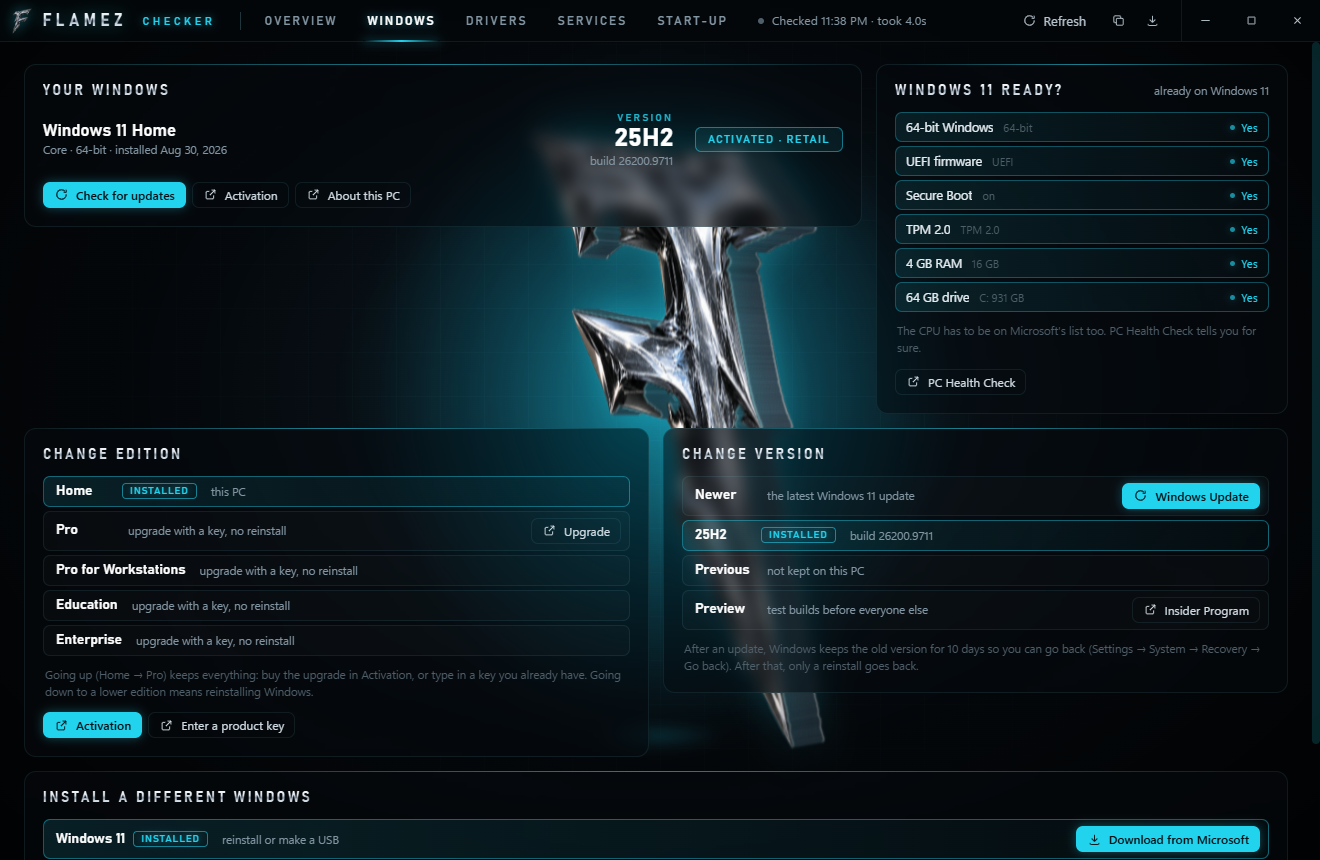
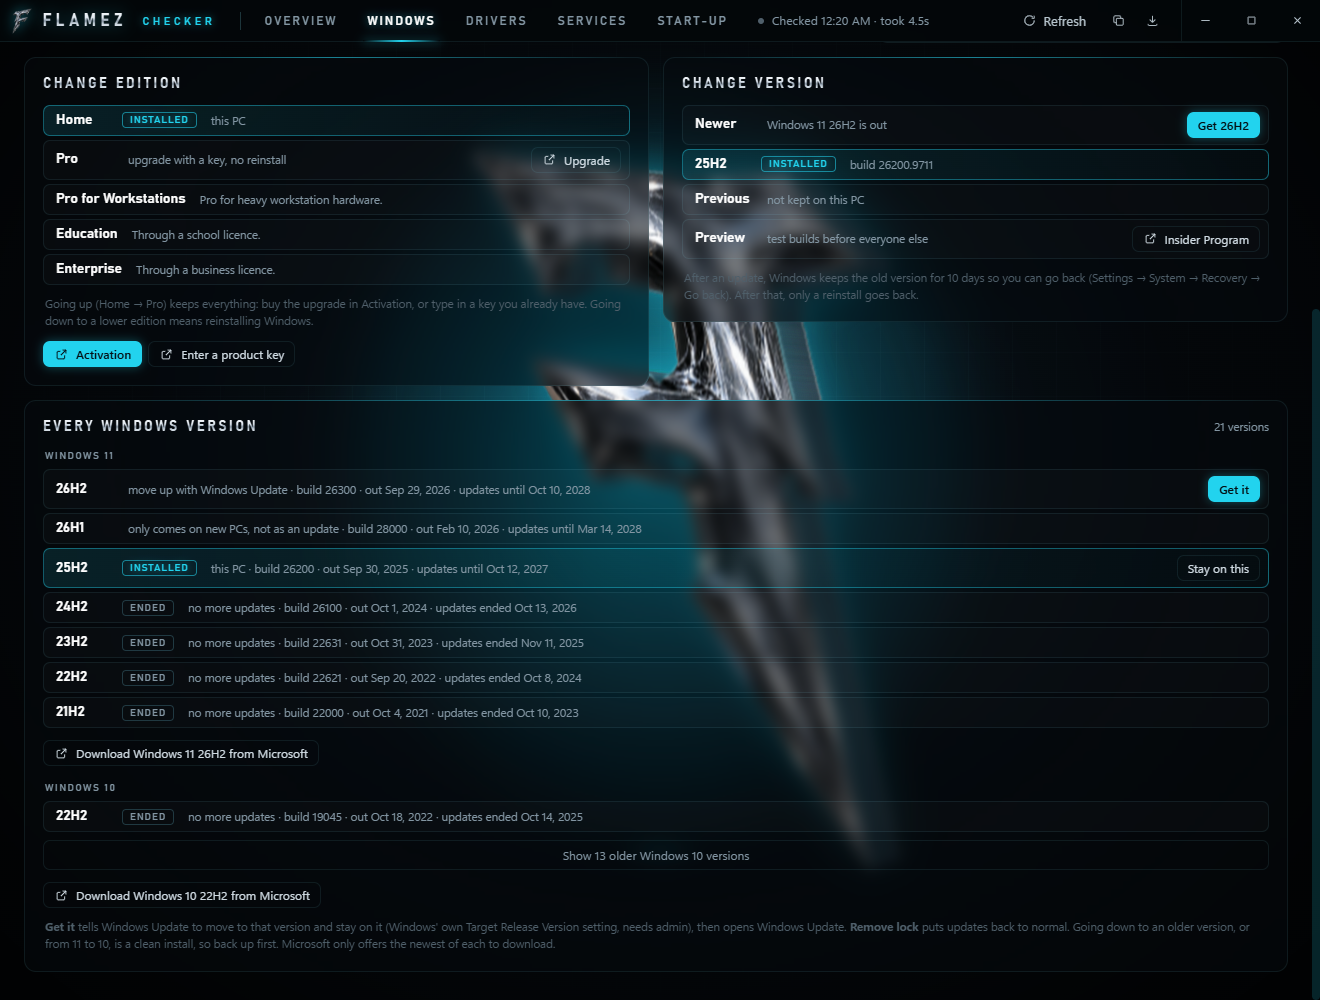
FLAMEZ CHECKER 1.2.0: every Windows 11 and 10 version
- Windows tab lists every Windows 11 (21H2 to 26H2) and Windows 10
  (1507 to 22H2) version with build, release date and end of updates,
  from Microsoft's release information pages
- Get it / Stay on this set Windows Update's target release version
  (asks for admin); Remove lock clears it
- Change version shows when a newer Windows 11 is out (26H2)

diff --git a/renderer/renderer.js b/renderer/renderer.js
@@ -840,12 +840,13 @@ function windowsCards(d) {
   // the version it updated from, if Windows still has it
   const prevAge = s.previous ? (Date.now() - new Date(s.previous)) / 86400000 : null;
   const daysLeft = prevAge == null ? 0 : Math.floor(GO_BACK_DAYS - prevAge);
+  const next = s.target ? null : nextVersion(d); // once locked, the list below shows where it's going
   const version = card(
     'Change version',
     `<div class="releases">
       <div class="release">
-        <b>Newer</b><span class="r-meta">the latest ${win11 ? 'Windows 11' : 'Windows'} update</span>
-        <span class="r-btns"><button class="dl primary" data-place="update"><i data-icon="refresh"></i>Windows Update</button></span>
+        <b>Newer</b><span class="r-meta">${next ? `Windows 11 ${esc(next.v)} is out` : `the latest ${win11 ? 'Windows 11' : 'Windows'} update`}</span>
+        <span class="r-btns">${next ? targetBtn('Windows 11', next.v, `Get ${next.v}`, 'primary') : '<button class="dl primary" data-place="update"><i data-icon="refresh"></i>Windows Update</button>'}</span>
       </div>
       <div class="release current">
         <b>${esc(s.release || 'Now')}</b><span class="tag on">Installed</span><span class="r-meta">build ${esc(s.build)}</span>
@@ -865,31 +866,95 @@ function windowsCards(d) {
     { cls: 'half' },
   );
 
-  const install = card(
-    'Install a different Windows',
-    `<div class="releases">
-      <div class="release ${win11 ? 'current' : ''}">
-        <b>Windows 11</b>${win11 ? '<span class="tag on">Installed</span>' : '<span class="tag">Latest</span>'}
-        <span class="r-meta">${win11 ? 'reinstall or make a USB' : 'upgrade in place, keeps your files and apps'}</span>
-        <span class="r-btns">${linkBtn('https://www.microsoft.com/software-download/windows11', 'Download from Microsoft', 'primary')}</span>
-      </div>
-      <div class="release ${win11 ? '' : 'current'}">
-        <b>Windows 10</b>${win11 ? '' : '<span class="tag on">Installed</span>'}
-        <span class="r-meta">22H2, the last one · no more security updates</span>
-        <span class="r-btns">${linkBtn('https://www.microsoft.com/software-download/windows10', 'Download from Microsoft')}</span>
-      </div>
-    </div>
-    <p class="note">Microsoft's page has the Installation Assistant (upgrades this PC), the Media Creation Tool (makes an install USB) and the ISO. Going from Windows 11 back to 10 is a clean install, so back up your files first. Your licence carries over: the same edition activates on either.</p>`,
-    { cls: 'full' },
-  );
+  return `${yours}${ready}${edition}${version}${versionsCard(d, current)}`;
+}
 
-  return `${yours}${ready}${edition}${version}${install}`;
+// ---------- every Windows 11 and 10 version ----------
+
+const winView = { older: false }; // also show the old Windows 10 versions
+const isoDay = (s) => day(`${s}T12:00`); // catalog dates are YYYY-MM-DD
+const targetBtn = (product, v, label, cls = '') => `<button class="dl ${cls}" data-target="${esc(`${product}|${v}`)}">${esc(label)}</button>`;
+
+// the newest Windows 11 this PC can move up to with Windows Update
+function nextVersion(d) {
+  const build = parseInt(d.system.build, 10) || 0;
+  const today = new Date().toISOString().slice(0, 10);
+  const win11 = /Windows 11/i.test(d.system.os);
+  return CATALOG.windows11.find((r) => !r.newPcs && r.end >= today && (!win11 || r.build > build));
+}
+
+function versionsCard(d, edition) {
+  const s = d.system;
+  const build = parseInt(s.build, 10) || 0;
+  const win11 = /Windows 11/i.test(s.os);
+  const ent = edition?.rank >= 2; // Education and Enterprise get a year longer
+  const today = new Date().toISOString().slice(0, 10);
+  const lock = s.target;
+
+  const row = (product, r) => {
+    const mine = build === r.build;
+    const endDate = ent && r.entEnd ? r.entEnd : r.end;
+    const supported = endDate >= today;
+    const locked = lock?.product === product && lock?.version === r.v;
+    // Windows Update only goes up: any Windows 11 from 10, or a later build of the same one
+    const newer = !mine && (product === 'Windows 11' ? !win11 || r.build > build : !win11 && r.build > build);
+    let how;
+    let btn = '';
+    if (mine) {
+      how = locked ? 'Windows Update stays on this' : 'this PC';
+      if (!locked && supported) btn = targetBtn(product, r.v, 'Stay on this');
+    } else if (r.newPcs) how = 'only comes on new PCs, not as an update';
+    else if (newer && supported) {
+      how = 'move up with Windows Update';
+      if (!locked) btn = targetBtn(product, r.v, 'Get it', 'primary');
+    } else if (!supported) how = 'no more updates';
+    else how = 'older, so clean install only';
+    const tags = [mine ? '<span class="tag on">Installed</span>' : '', locked ? '<span class="tag on">Locked</span>' : '', !supported ? '<span class="tag">Ended</span>' : ''].join('');
+    return `<div class="release ${mine ? 'current' : ''}">
+      <b>${esc(r.v)}</b>${tags}
+      <span class="r-meta">${esc(how)} · build ${r.build} · out ${isoDay(r.out)} · updates ${supported ? 'until' : 'ended'} ${isoDay(endDate)}</span>
+      <span class="r-btns">${btn}</span>
+    </div>`;
+  };
+
+  const win10 = winView.older ? CATALOG.windows10 : CATALOG.windows10.slice(0, 1);
+  const olderCount = CATALOG.windows10.length - 1;
+  return card(
+    'Every Windows version',
+    `<div class="sub">Windows 11</div>
+    <div class="releases">${CATALOG.windows11.map((r) => row('Windows 11', r)).join('')}</div>
+    <div class="r-btns left">${linkBtn('https://www.microsoft.com/software-download/windows11', 'Download the newest Windows 11 from Microsoft')}</div>
+    <div class="sub" style="margin-top:16px">Windows 10</div>
+    <div class="releases">${win10.map((r) => row('Windows 10', r)).join('')}</div>
+    <button class="more" data-act="win10-older">${winView.older ? 'Only show the last one' : `Show ${olderCount} older Windows 10 versions`}</button>
+    <div class="r-btns left">${linkBtn('https://www.microsoft.com/software-download/windows10', 'Download Windows 10 22H2 from Microsoft')}${lock ? '<button class="dl" data-target=""><i data-icon="refresh"></i>Remove lock</button>' : ''}</div>
+    <p class="note"><b>Get it</b> tells Windows Update to move to that version and stay on it (Windows' own Target Release Version setting, needs admin), then opens Windows Update. <b>Remove lock</b> puts updates back to normal. Going down to an older version, or from 11 to 10, is a clean install, so back up first. Microsoft only offers the newest of each to download.</p>`,
+    { cls: 'full', meta: lock ? `locked to ${lock.product} ${lock.version}` : `${CATALOG.windows11.length + CATALOG.windows10.length} versions`, metaLit: !!lock },
+  );
 }
 
 function drawWindows() {
   $('#windows-cards').innerHTML = windowsCards(data);
   drawIcons($('#windows-cards'));
 }
+
+$('#windows-cards').addEventListener('click', async (e) => {
+  if (e.target.closest('[data-act="win10-older"]')) {
+    winView.older = !winView.older;
+    drawWindows();
+  }
+  const t = e.target.closest('[data-target]');
+  if (!t) return;
+  const [product, version] = t.dataset.target.split('|');
+  const r = await flamez.setWindowsTarget(version ? { product, version } : null);
+  if (!r.ok) return toast(r.error);
+  // 22H2 and 21H2 are names in both lists, so look in the right one
+  const list = product === 'Windows 11' ? CATALOG.windows11 : CATALOG.windows10;
+  const moving = version && list.find((x) => x.v === version)?.build !== parseInt(data.system.build, 10);
+  toast(!version ? 'Lock removed. Updates are back to normal.' : moving ? `Windows Update will move to ${product} ${version}.` : `Windows Update will stay on ${version}.`);
+  if (moving) flamez.open('update');
+  check();
+});
 
 // ---------- the report ----------
 

diff --git a/renderer/catalog.js b/renderer/catalog.js
@@ -74,6 +74,35 @@ window.CATALOG = {
     { name: 'HxD', app: /^HxD/i, proc: ['HxD', 'HxD64'] },
   ],
 
+  // every Windows release, newest first, from Microsoft's release information pages
+  // (learn.microsoft.com/windows/release-health). end = last update for Home and Pro,
+  // entEnd = for Enterprise and Education. Add new ones at the top.
+  windows11: [
+    { v: '26H2', build: 26300, out: '2026-09-29', end: '2028-10-10', entEnd: '2029-10-09' },
+    { v: '26H1', build: 28000, out: '2026-02-10', end: '2028-03-14', entEnd: '2029-03-13', newPcs: true },
+    { v: '25H2', build: 26200, out: '2025-09-30', end: '2027-10-12', entEnd: '2028-10-10' },
+    { v: '24H2', build: 26100, out: '2024-10-01', end: '2026-10-13', entEnd: '2027-10-12' },
+    { v: '23H2', build: 22631, out: '2023-10-31', end: '2025-11-11', entEnd: '2026-11-10' },
+    { v: '22H2', build: 22621, out: '2022-09-20', end: '2024-10-08', entEnd: '2025-10-14' },
+    { v: '21H2', build: 22000, out: '2021-10-04', end: '2023-10-10', entEnd: '2024-10-08' },
+  ],
+  windows10: [
+    { v: '22H2', build: 19045, out: '2022-10-18', end: '2025-10-14' },
+    { v: '21H2', build: 19044, out: '2021-11-16', end: '2023-06-13' },
+    { v: '21H1', build: 19043, out: '2021-05-18', end: '2022-12-13' },
+    { v: '20H2', build: 19042, out: '2020-10-20', end: '2022-05-10' },
+    { v: '2004', build: 19041, out: '2020-05-27', end: '2021-12-14' },
+    { v: '1909', build: 18363, out: '2019-11-12', end: '2021-05-11' },
+    { v: '1903', build: 18362, out: '2019-05-21', end: '2020-12-08' },
+    { v: '1809', build: 17763, out: '2018-11-13', end: '2020-11-10' },
+    { v: '1803', build: 17134, out: '2018-04-30', end: '2019-11-12' },
+    { v: '1709', build: 16299, out: '2017-10-17', end: '2019-04-09' },
+    { v: '1703', build: 15063, out: '2017-04-05', end: '2018-10-09' },
+    { v: '1607', build: 14393, out: '2016-08-02', end: '2018-04-10' },
+    { v: '1511', build: 10586, out: '2015-11-10', end: '2017-10-10' },
+    { v: '1507', build: 10240, out: '2015-07-29', end: '2017-05-09' },
+  ],
+
   // network adapters that are a VPN or virtual network
   vpn: /WireGuard|WARP|Cloudflare|TAP-Windows|OpenVPN|Tailscale|NordLynx|Proton|Mullvad|ZeroTier|Hamachi|Radmin|ExpressVPN|Surfshark/i,
 };

diff --git a/main.js b/main.js
@@ -246,6 +246,39 @@ ipcMain.handle('report:save', async (_e, text) => {
   return filePath;
 });
 
+// ---------- choosing a Windows version ----------
+// Windows' own "target release version" setting: Windows Update moves to that
+// version (if it's newer) and stays on it. null removes it. Needs admin, so it
+// runs in a PowerShell that asks for it.
+
+const WU_POLICY = 'HKLM:\\SOFTWARE\\Policies\\Microsoft\\Windows\\WindowsUpdate';
+
+ipcMain.handle('windows:target', (_e, target) => {
+  let script;
+  if (target) {
+    const { product, version } = target;
+    if (!['Windows 11', 'Windows 10'].includes(product) || !/^\d{2}H[12]$/.test(version)) return { ok: false, error: 'Not a Windows version.' };
+    script = [
+      `$k = '${WU_POLICY}'`,
+      'if (-not (Test-Path $k)) { New-Item -Path $k -Force | Out-Null }',
+      "New-ItemProperty -Path $k -Name TargetReleaseVersion -Value 1 -PropertyType DWord -Force | Out-Null",
+      `New-ItemProperty -Path $k -Name ProductVersion -Value '${product}' -PropertyType String -Force | Out-Null`,
+      `New-ItemProperty -Path $k -Name TargetReleaseVersionInfo -Value '${version}' -PropertyType String -Force | Out-Null`,
+    ].join('; ');
+  } else {
+    script = `Remove-ItemProperty -Path '${WU_POLICY}' -Name TargetReleaseVersion, ProductVersion, TargetReleaseVersionInfo -ErrorAction SilentlyContinue`;
+  }
+  const encoded = Buffer.from(script, 'utf16le').toString('base64');
+  return new Promise((resolve) => {
+    execFile(
+      'powershell.exe',
+      ['-NoProfile', '-NonInteractive', '-Command', `$p = Start-Process powershell.exe -Verb RunAs -WindowStyle Hidden -Wait -PassThru -ArgumentList '-NoProfile', '-EncodedCommand', '${encoded}'; exit $p.ExitCode`],
+      { windowsHide: true, timeout: 120000 },
+      (err, _out, stderr) => resolve(err ? { ok: false, error: /cancel/i.test(stderr) ? 'Cancelled.' : "Couldn't change it (it needs admin)." } : { ok: true }),
+    );
+  });
+});
+
 // ---------- updates ----------
 // New versions come from the GitHub releases. They download in the background;
 // the page offers a restart, and otherwise it installs when the app closes.

diff --git a/preload.js b/preload.js
@@ -7,6 +7,7 @@ contextBridge.exposeInMainWorld('flamez', {
   openLink: (url) => ipcRenderer.invoke('link:open', url),
   driversOnline: (gpuNames) => ipcRenderer.invoke('drivers:online', gpuNames),
   uninstall: (appName) => ipcRenderer.invoke('app:uninstall', appName),
+  setWindowsTarget: (target) => ipcRenderer.invoke('windows:target', target),
   copyReport: (text) => ipcRenderer.invoke('report:copy', text),
   saveReport: (text) => ipcRenderer.invoke('report:save', text),
   about: () => ipcRenderer.invoke('app:about'),

diff --git a/README.md b/README.md
@@ -36,7 +36,8 @@
 - Your edition, version, build and whether Windows is activated
 - **Change edition**: upgrade Home to Pro with a key, or open Activation
 - **Change version**: Windows Update, go back to the previous version (while Windows still keeps it), or join the Insider Program
-- **Install a different Windows**: Windows 11 or 10 straight from Microsoft, and whether this PC is ready for Windows 11
+- **Every Windows version**: all of Windows 11 (21H2 to 26H2) and Windows 10 (1507 to 22H2) with their build, release date and how long they get updates. **Get it** moves this PC up to a newer version with Windows Update and keeps it there; **Stay on this** holds your current one; **Remove lock** puts updates back to normal
+- **Install Windows 11 or 10** straight from Microsoft, and see whether this PC is ready for Windows 11
 
 ## Anti-cheats
 
